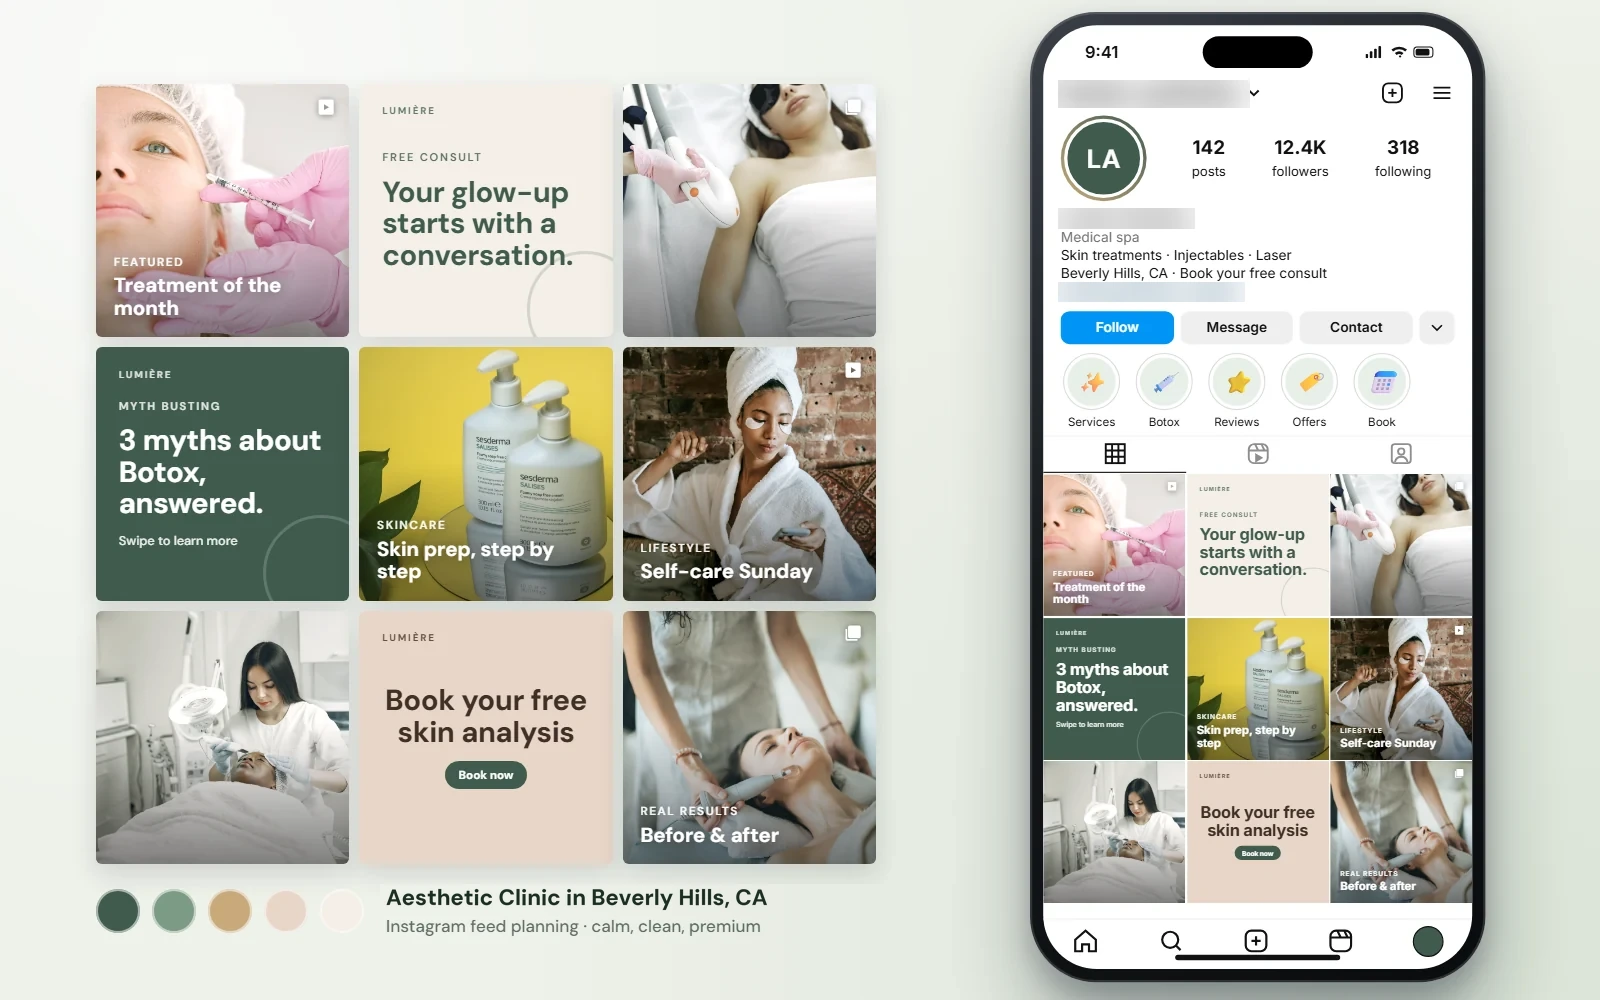
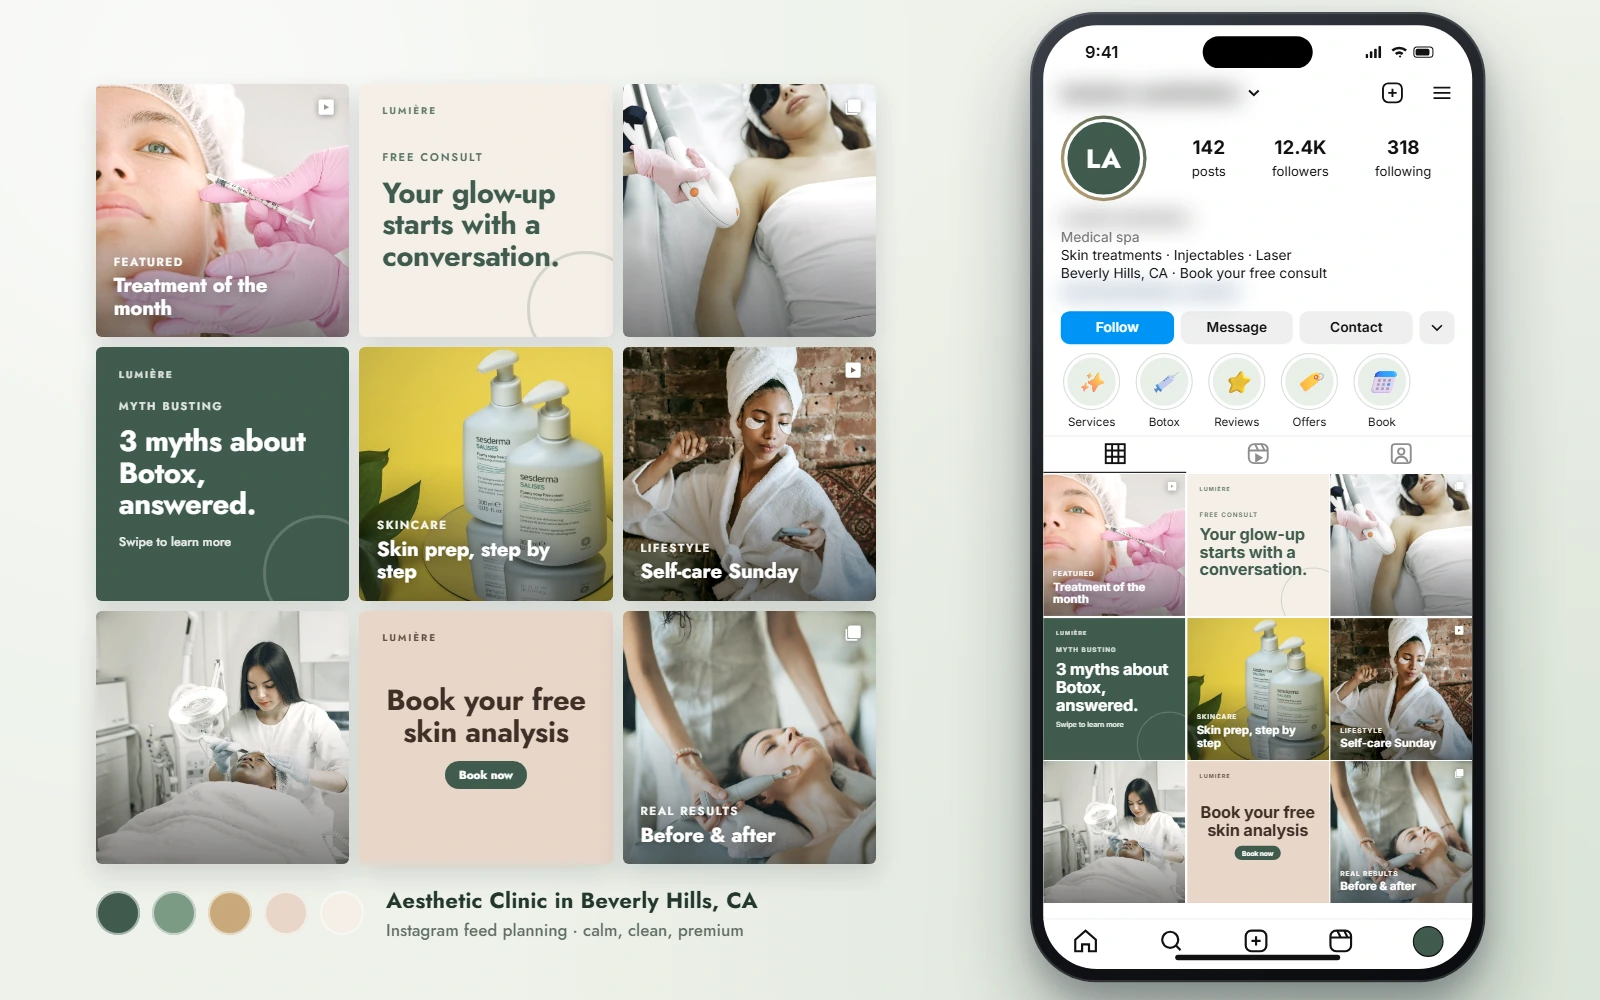
Instagram feeds: own font per brand, blurred brand names on phone, locations in captions, new coffee shop feed

diff --git a/concepts/instagram-feeds/index.html b/concepts/instagram-feeds/index.html
@@ -1,13 +1,14 @@
 <!DOCTYPE html>
 <html lang="en"><head><meta charset="utf-8"><meta name="robots" content="noindex, nofollow">
 <title>Instagram feed planning mockups</title>
+<!-- Each feed has its own font (D.font): clinic = Jost, makeup = Playfair Display, travel = DM Sans, coffee = Bricolage Grotesque. -->
 <!-- Source for the three Instagram feed mockups (images/ig-feed-*.jpg). Open with ?f=clinic | travel | makeup.
      Photos are Pexels stock photos. Brands and handles are made-up samples. Screenshot at 1600x1000. -->
-<link href="https://fonts.googleapis.com/css2?family=DM+Sans:wght@400;500;600;700&family=Inter:wght@400;500;600;700&display=swap" rel="stylesheet">
+<link href="https://fonts.googleapis.com/css2?family=DM+Sans:wght@400;500;600;700&family=Inter:wght@400;500;600;700&family=Jost:wght@400;500;600;700&family=Playfair+Display:wght@500;600;700&family=Bricolage+Grotesque:wght@400;500;600;700&display=swap" rel="stylesheet">
 <style>
 *{box-sizing:border-box;margin:0;padding:0}
 html,body{width:1600px;height:1000px;overflow:hidden}
-body{font-family:"DM Sans",sans-serif;background:var(--bg);color:var(--ink);position:relative}
+body{font-family:var(--f),"DM Sans",sans-serif;background:var(--bg);color:var(--ink);position:relative}
 .stage{position:absolute;inset:0;background:radial-gradient(circle at 12% 8%,rgba(255,255,255,.7),transparent 45%),radial-gradient(circle at 92% 95%,var(--bg2),transparent 55%)}
 .flat{position:absolute;left:96px;top:84px;width:780px}
 .flat .grid{display:grid;grid-template-columns:repeat(3,minmax(0,1fr));gap:10px}
@@ -43,7 +44,7 @@ body{font-family:"DM Sans",sans-serif;background:var(--bg);color:var(--ink);posi
 .prof{flex:none;padding:4px 16px 0}
 .top{display:flex;align-items:center;gap:20px}
 .av{width:78px;height:78px;border-radius:50%;padding:3px;background:var(--ring);flex:none}
-.av div{width:100%;height:100%;border-radius:50%;border:3px solid #fff;background:var(--av);display:grid;place-items:center;color:#fff;font:700 24px "DM Sans";letter-spacing:.02em}
+.av div{width:100%;height:100%;border-radius:50%;border:3px solid #fff;background:var(--av);display:grid;place-items:center;color:#fff;font:700 24px var(--f),"DM Sans";letter-spacing:.02em}
 .stats{display:flex;flex:1;justify-content:space-around;text-align:center}.stats b{display:block;font-size:17px;font-weight:700}.stats span{font-size:12px}
 .bio{margin-top:8px;font-size:12.5px;line-height:1.32}.bio b{font-weight:700;display:block}.bio .cat{color:#737373}.bio .lk{color:#00376b;font-weight:600}
 .btns{display:flex;gap:6px;margin-top:9px}.btns div{flex:1;height:30px;border-radius:8px;background:#efefef;display:grid;place-items:center;font-weight:600;font-size:12.5px}
@@ -54,6 +55,7 @@ body{font-family:"DM Sans",sans-serif;background:var(--bg);color:var(--ink);posi
 .pg{flex:none;display:grid;grid-template-columns:repeat(3,minmax(0,1fr));gap:1.5px;margin-top:1.5px}
 .nav{margin-top:auto;height:46px;flex:none;border-top:1px solid #efefef;display:flex;justify-content:space-around;align-items:center;padding-bottom:6px}
 .nav svg{width:25px;height:25px;stroke:#111;fill:none;stroke-width:1.9}.nav .me{width:28px;height:28px;border-radius:50%;background:var(--av);border:1.5px solid #111}
+.bl{filter:blur(10px)}
 .home{position:absolute;bottom:8px;left:50%;width:150px;height:5px;margin-left:-75px;border-radius:3px;background:#111;z-index:4}
 </style></head>
 <body>
@@ -62,7 +64,7 @@ body{font-family:"DM Sans",sans-serif;background:var(--bg);color:var(--ink);posi
 <div class="label" id="label"></div>
 <div class="phone"><div class="scr"><div class="island"></div>
   <div class="status"><span>9:41</span><svg viewBox="0 0 80 14"><rect x="0" y="9" width="3" height="5" rx="1"/><rect x="5" y="6" width="3" height="8" rx="1"/><rect x="10" y="3" width="3" height="11" rx="1"/><rect x="15" y="0" width="3" height="14" rx="1"/><path d="M30 4a14 14 0 0 1 18 0l-2 2.3a11 11 0 0 0-14 0zM34 8a8 8 0 0 1 10 0l-2 2.3a5 5 0 0 0-6 0zM38.5 12l1.5-1.8 1.5 1.8-1.5 1.5z"/><rect x="56" y="1" width="22" height="12" rx="3.5" fill="none" stroke="#111" stroke-width="1.2"/><rect x="58" y="3" width="16" height="8" rx="2"/></svg></div>
-  <div class="hdr"><div class="u"><span id="uname"></span><svg viewBox="0 0 12 12" fill="none" stroke="#111" stroke-width="1.6"><path d="m2 4 4 4 4-4"/></svg></div>
+  <div class="hdr"><div class="u"><span id="uname" class="bl"></span><svg viewBox="0 0 12 12" fill="none" stroke="#111" stroke-width="1.6"><path d="m2 4 4 4 4-4"/></svg></div>
     <div class="r"><svg viewBox="0 0 24 24"><rect x="3" y="3" width="18" height="18" rx="5"/><path d="M12 8v8M8 12h8"/></svg><svg viewBox="0 0 24 24"><path d="M4 7h16M4 12h16M4 17h16"/></svg></div></div>
   <div class="prof"><div class="top"><div class="av"><div id="mono"></div></div>
       <div class="stats"><div><b id="s1"></b><span>posts</span></div><div><b id="s2"></b><span>followers</span></div><div><b id="s3"></b><span>following</span></div></div></div>
@@ -82,7 +84,7 @@ const F = {
     bg: "#eef1ea", bg2: "#d9e3d6", ink: "#23372d",
     ph: "saturate(.88) contrast(1.02) brightness(1.02)", tint: "#9bb59f",
     swatches: ["#3f5b4e", "#7d9a85", "#c9a97a", "#e8d5c8", "#f4efe7"],
-    title: "Aesthetic Clinic", sub: "Instagram feed planning · calm, clean, premium",
+    font: "Jost", title: "Aesthetic Clinic in Beverly Hills, CA", sub: "Instagram feed planning · calm, clean, premium",
     user: "lumiere.aesthetics", mono: "LA", ring: "linear-gradient(45deg,#c9a97a,#3f5b4e)", av: "#3f5b4e", hlbg: "#e8efe9",
     stats: ["142", "12.4K", "318"],
     bio: '<b>Lumière Aesthetics</b><span class="cat">Medical spa</span><br>Skin treatments · Injectables · Laser<br>Beverly Hills, CA · Book your free consult<br><span class="lk">lumiereaesthetics.co/book</span>',
@@ -103,7 +105,7 @@ const F = {
     bg: "#f6efe3", bg2: "#cfe3ea", ink: "#1b2a33",
     ph: "saturate(.95) contrast(1.03)", tint: "#e0b48a",
     swatches: ["#1f5f7a", "#5d96ab", "#e8d9bf", "#c8643c", "#1b2a33"],
-    title: "Travel Content Creator", sub: "Instagram feed planning · warm, wanderlust, save-worthy",
+    font: "DM Sans", title: "Travel Content Creator in Bali, Indonesia", sub: "Instagram feed planning · warm, wanderlust, save-worthy",
     user: "thelostpassport.co", mono: "LP", ring: "linear-gradient(45deg,#c8643c,#e6b25a)", av: "#1f5f7a", hlbg: "#f3e6d2",
     stats: ["389", "48.2K", "512"],
     bio: '<b>The Lost Passport</b><span class="cat">Travel creator</span><br>38 countries · Budget trips & hidden gems<br>Currently: Bali → Tokyo ✈<br><span class="lk">linktr.ee/thelostpassport</span>',
@@ -120,11 +122,32 @@ const F = {
       { p: 5792915, shade: 1 }
     ]
   },
+  coffee: {
+    bg: "#f4ece2", bg2: "#e3cfb6", ink: "#3b2a20",
+    ph: "saturate(.95) contrast(1.03) sepia(.08)", tint: "#c9a07a",
+    swatches: ["#3b2a20", "#a8703d", "#d9bfa3", "#f3e9dc", "#5f6f52"],
+    font: "Bricolage Grotesque", title: "Coffee Shop in Melbourne, Australia", sub: "Instagram feed planning · warm, cosy, café-fresh",
+    user: "emberandoak.coffee", mono: "E&O", ring: "linear-gradient(45deg,#a8703d,#3b2a20)", av: "#3b2a20", hlbg: "#f3e6d4",
+    stats: ["312", "9,860", "421"],
+    bio: '<b>Ember &amp; Oak Coffee</b><span class="cat">Coffee shop &amp; roastery</span><br>Specialty coffee · Fresh pastries · Roasted weekly<br>Fitzroy, Melbourne · Open daily 7am to 3pm<br><span class="lk">emberandoak.com.au</span>',
+    hl: [["☕", "Menu"], ["🥐", "Bakes"], ["⭐", "Reviews"], ["🫘", "Beans"], ["📍", "Visit"]],
+    tiles: [
+      { p: 4913342, cap: "Our signature flat white", k: "House favourite", shade: 1, ic: REEL },
+      { t: 1, bg: "#f3e9dc", fg: "#3b2a20", brand: "Ember & Oak", k: "Now brewing", h: "Single-origin Ethiopia, now on bar.", ring: 1 },
+      { p: 8987828, shade: 1, ic: MULTI },
+      { t: 1, bg: "#3b2a20", fg: "#f3e9dc", brand: "Ember & Oak", k: "Barista tip", h: "3 ways to brew better coffee at home.", p2: "Swipe for the guide", ring: 1 },
+      { p: 30403209, cap: "Fresh from the oven", k: "Pastries", shade: 1 },
+      { p: 15801049, cap: "Your neighbourhood spot", k: "Visit us", shade: 1, ic: REEL },
+      { p: 18142624, shade: 1 },
+      { t: 1, c: 1, bg: "#d9bfa3", fg: "#3b2a20", brand: "Ember & Oak", h: "Your morning ritual awaits", b: "Order ahead", bb: "#3b2a20", bf: "#f3e9dc" },
+      { p: 31890551, cap: "Roasted weekly", k: "Fresh beans", shade: 1, ic: MULTI }
+    ]
+  },
   makeup: {
     bg: "#fbefee", bg2: "#f2cfd5", ink: "#4a1c2b",
     ph: "saturate(1.02) contrast(1.02) brightness(1.03)", tint: "#f0a9b8",
     swatches: ["#8e2c48", "#d98a9b", "#f3d6d8", "#fbf3ee", "#c9a07a"],
-    title: "Makeup Brand", sub: "Instagram feed planning · soft, feminine, shoppable",
+    font: "Playfair Display", title: "Makeup Brand in Los Angeles, CA", sub: "Instagram feed planning · soft, feminine, shoppable",
     user: "bloomandblush.beauty", mono: "B&B", ring: "linear-gradient(45deg,#d98a9b,#8e2c48)", av: "#8e2c48", hlbg: "#fbe3e6",
     stats: ["267", "31.7K", "204"],
     bio: '<b>Bloom &amp; Blush</b><span class="cat">Makeup &amp; cosmetics</span><br>Cruelty-free · Made for every shade 💗<br>New: The Rosé Collection is here<br><span class="lk">bloomandblush.com/shop</span>',
@@ -145,7 +168,7 @@ const F = {
 const key = new URLSearchParams(location.search).get("f") || "clinic", D = F[key];
 const root = document.documentElement.style;
 root.setProperty("--bg", D.bg); root.setProperty("--bg2", D.bg2); root.setProperty("--ink", D.ink); root.setProperty("--ph", D.ph); root.setProperty("--tint", D.tint);
-root.setProperty("--ring", D.ring); root.setProperty("--av", D.av); root.setProperty("--hlbg", D.hlbg);
+root.setProperty("--f", `"${D.font}"`); root.setProperty("--ring", D.ring); root.setProperty("--av", D.av); root.setProperty("--hlbg", D.hlbg);
 document.body.style.color = D.ink;
 const tile = t => t.p
   ? `<div class="t photo${t.shade ? " shade" : ""}"><img src="${px(t.p)}" alt="" crossorigin="anonymous">${t.ic || ""}${t.cap ? `<div class="cap"><small>${t.k}</small>${t.cap}</div>` : ""}</div>`
@@ -157,5 +180,7 @@ document.getElementById("label").innerHTML = `<div class="sw">${D.swatches.map(c
 document.getElementById("uname").textContent = D.user; document.getElementById("mono").innerHTML = D.mono;
 ["s1", "s2", "s3"].forEach((id, i) => document.getElementById(id).textContent = D.stats[i]);
 document.getElementById("bio").innerHTML = D.bio;
+document.querySelectorAll("#bio > b, #bio .lk").forEach(e => e.classList.add("bl"));
+if (D.bio.indexOf("<b>") > 0) document.querySelector("#bio > b").style.display = "block";
 document.getElementById("hl").innerHTML = D.hl.map(h => `<div><i><s>${h[0]}</s></i>${h[1]}</div>`).join("");
 </script></body></html>

diff --git a/portfolio/index.html b/portfolio/index.html
@@ -2304,15 +2304,16 @@
         category: "social",
         layout: "feeds",     // full-width card with one sub-card per planned Instagram feed
         title: "Instagram Content Feed I Create and Plan For You",
-        clients: ["Sample feeds: Aesthetic Clinic, Makeup Brand, Traveler"],
+        clients: ["Sample feeds: Aesthetic Clinic, Makeup Brand, Traveler, Coffee Shop"],
         description: "A consistent feed builds trust, and people follow pages that look put together. I plan nine posts at a time around one colour palette, a mix of photos and text posts and a fixed layout, then preview each feed as a flat plan and inside the Instagram app, ready to schedule.",
         tools: ["Canva", "Instagram", "Meta Business Suite", "Notion"],
         items: [
           { img: "ig-feed-clinic.webp", title: "Aesthetic Clinic Feed Planning", note: "Calm, clean and premium", accent: "#3f5a4b", tint: "#eef3ee" },
           { img: "ig-feed-makeup.webp", title: "Makeup Brand Feed Planning", note: "Soft, feminine and shoppable", accent: "#8b2f4b", tint: "#fbeff2" },
-          { img: "ig-feed-travel.webp", title: "Traveler Feed Planning", note: "Warm, wanderlust and save-worthy", accent: "#1f5f80", tint: "#edf4f8" }
+          { img: "ig-feed-travel.webp", title: "Traveler Feed Planning", note: "Warm, wanderlust and save-worthy", accent: "#1f5f80", tint: "#edf4f8" },
+          { img: "ig-feed-coffee.webp", title: "Coffee Shop Feed Planning", note: "Warm, cosy and café-fresh", accent: "#6b4a2f", tint: "#f6efe6" }
         ],
-        images: ["ig-feed-clinic.webp", "ig-feed-makeup.webp", "ig-feed-travel.webp"]
+        images: ["ig-feed-clinic.webp", "ig-feed-makeup.webp", "ig-feed-travel.webp", "ig-feed-coffee.webp"]
       },
       {
         category: "social",
